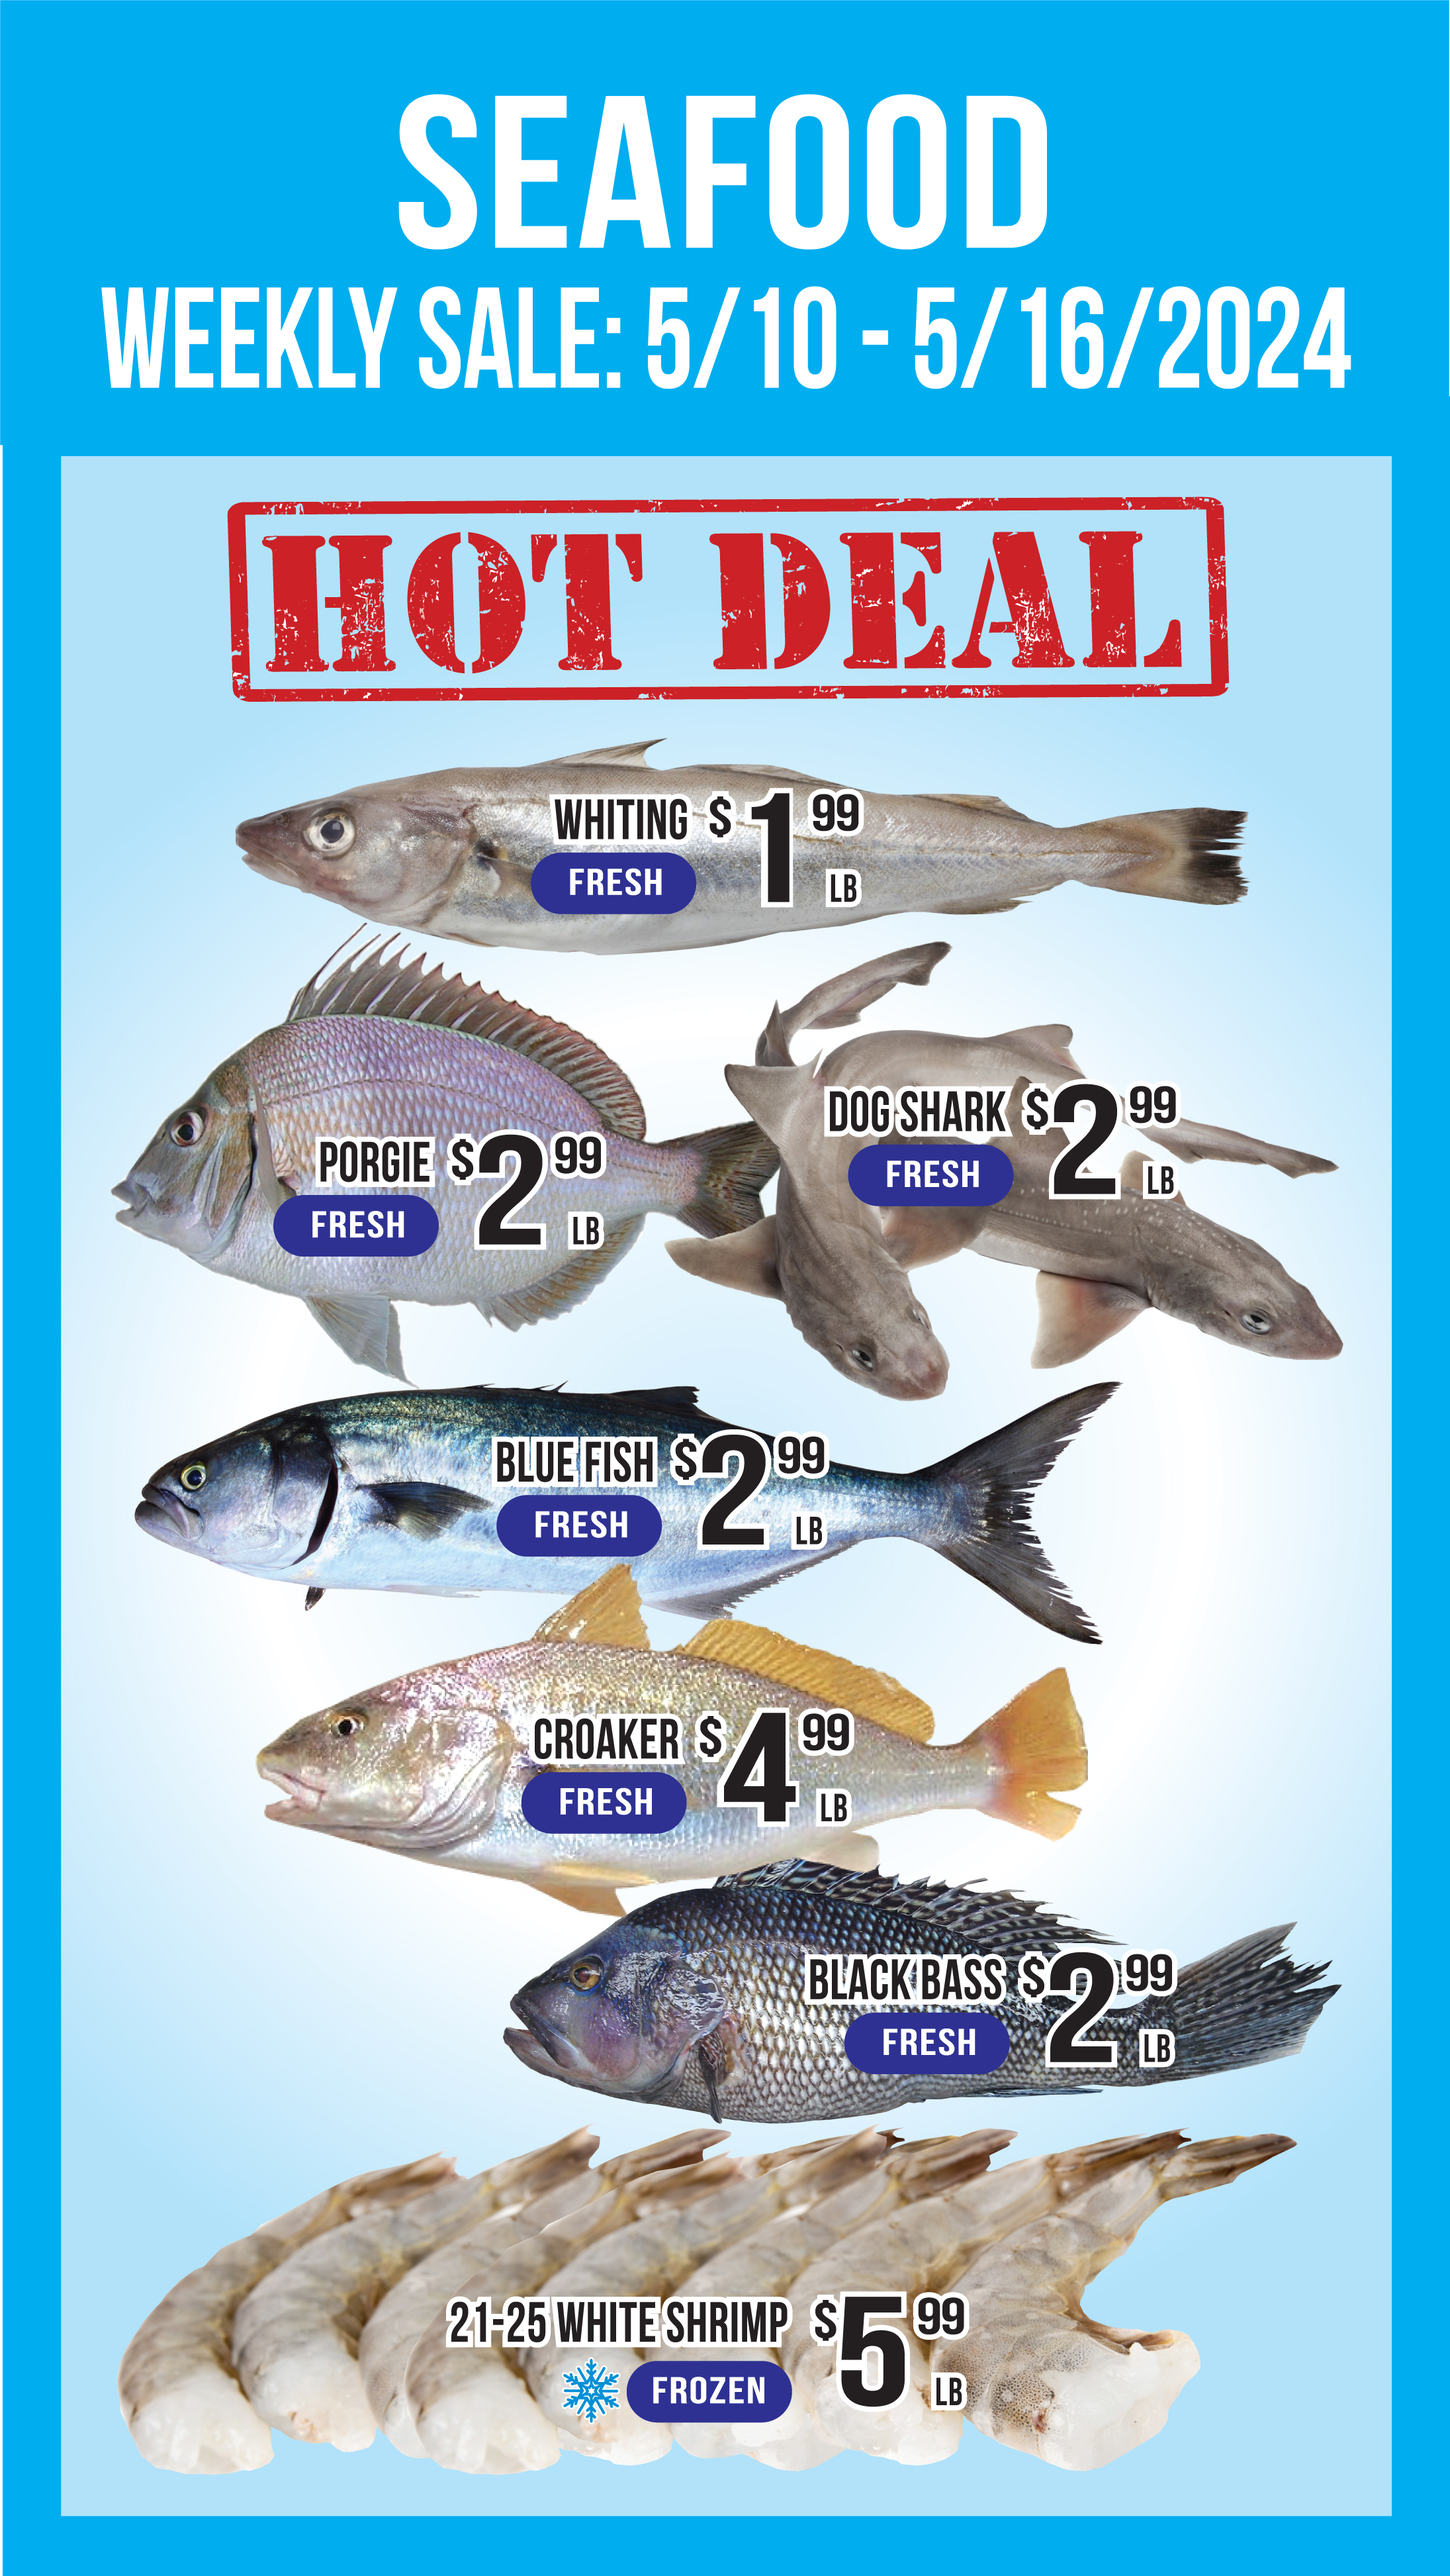
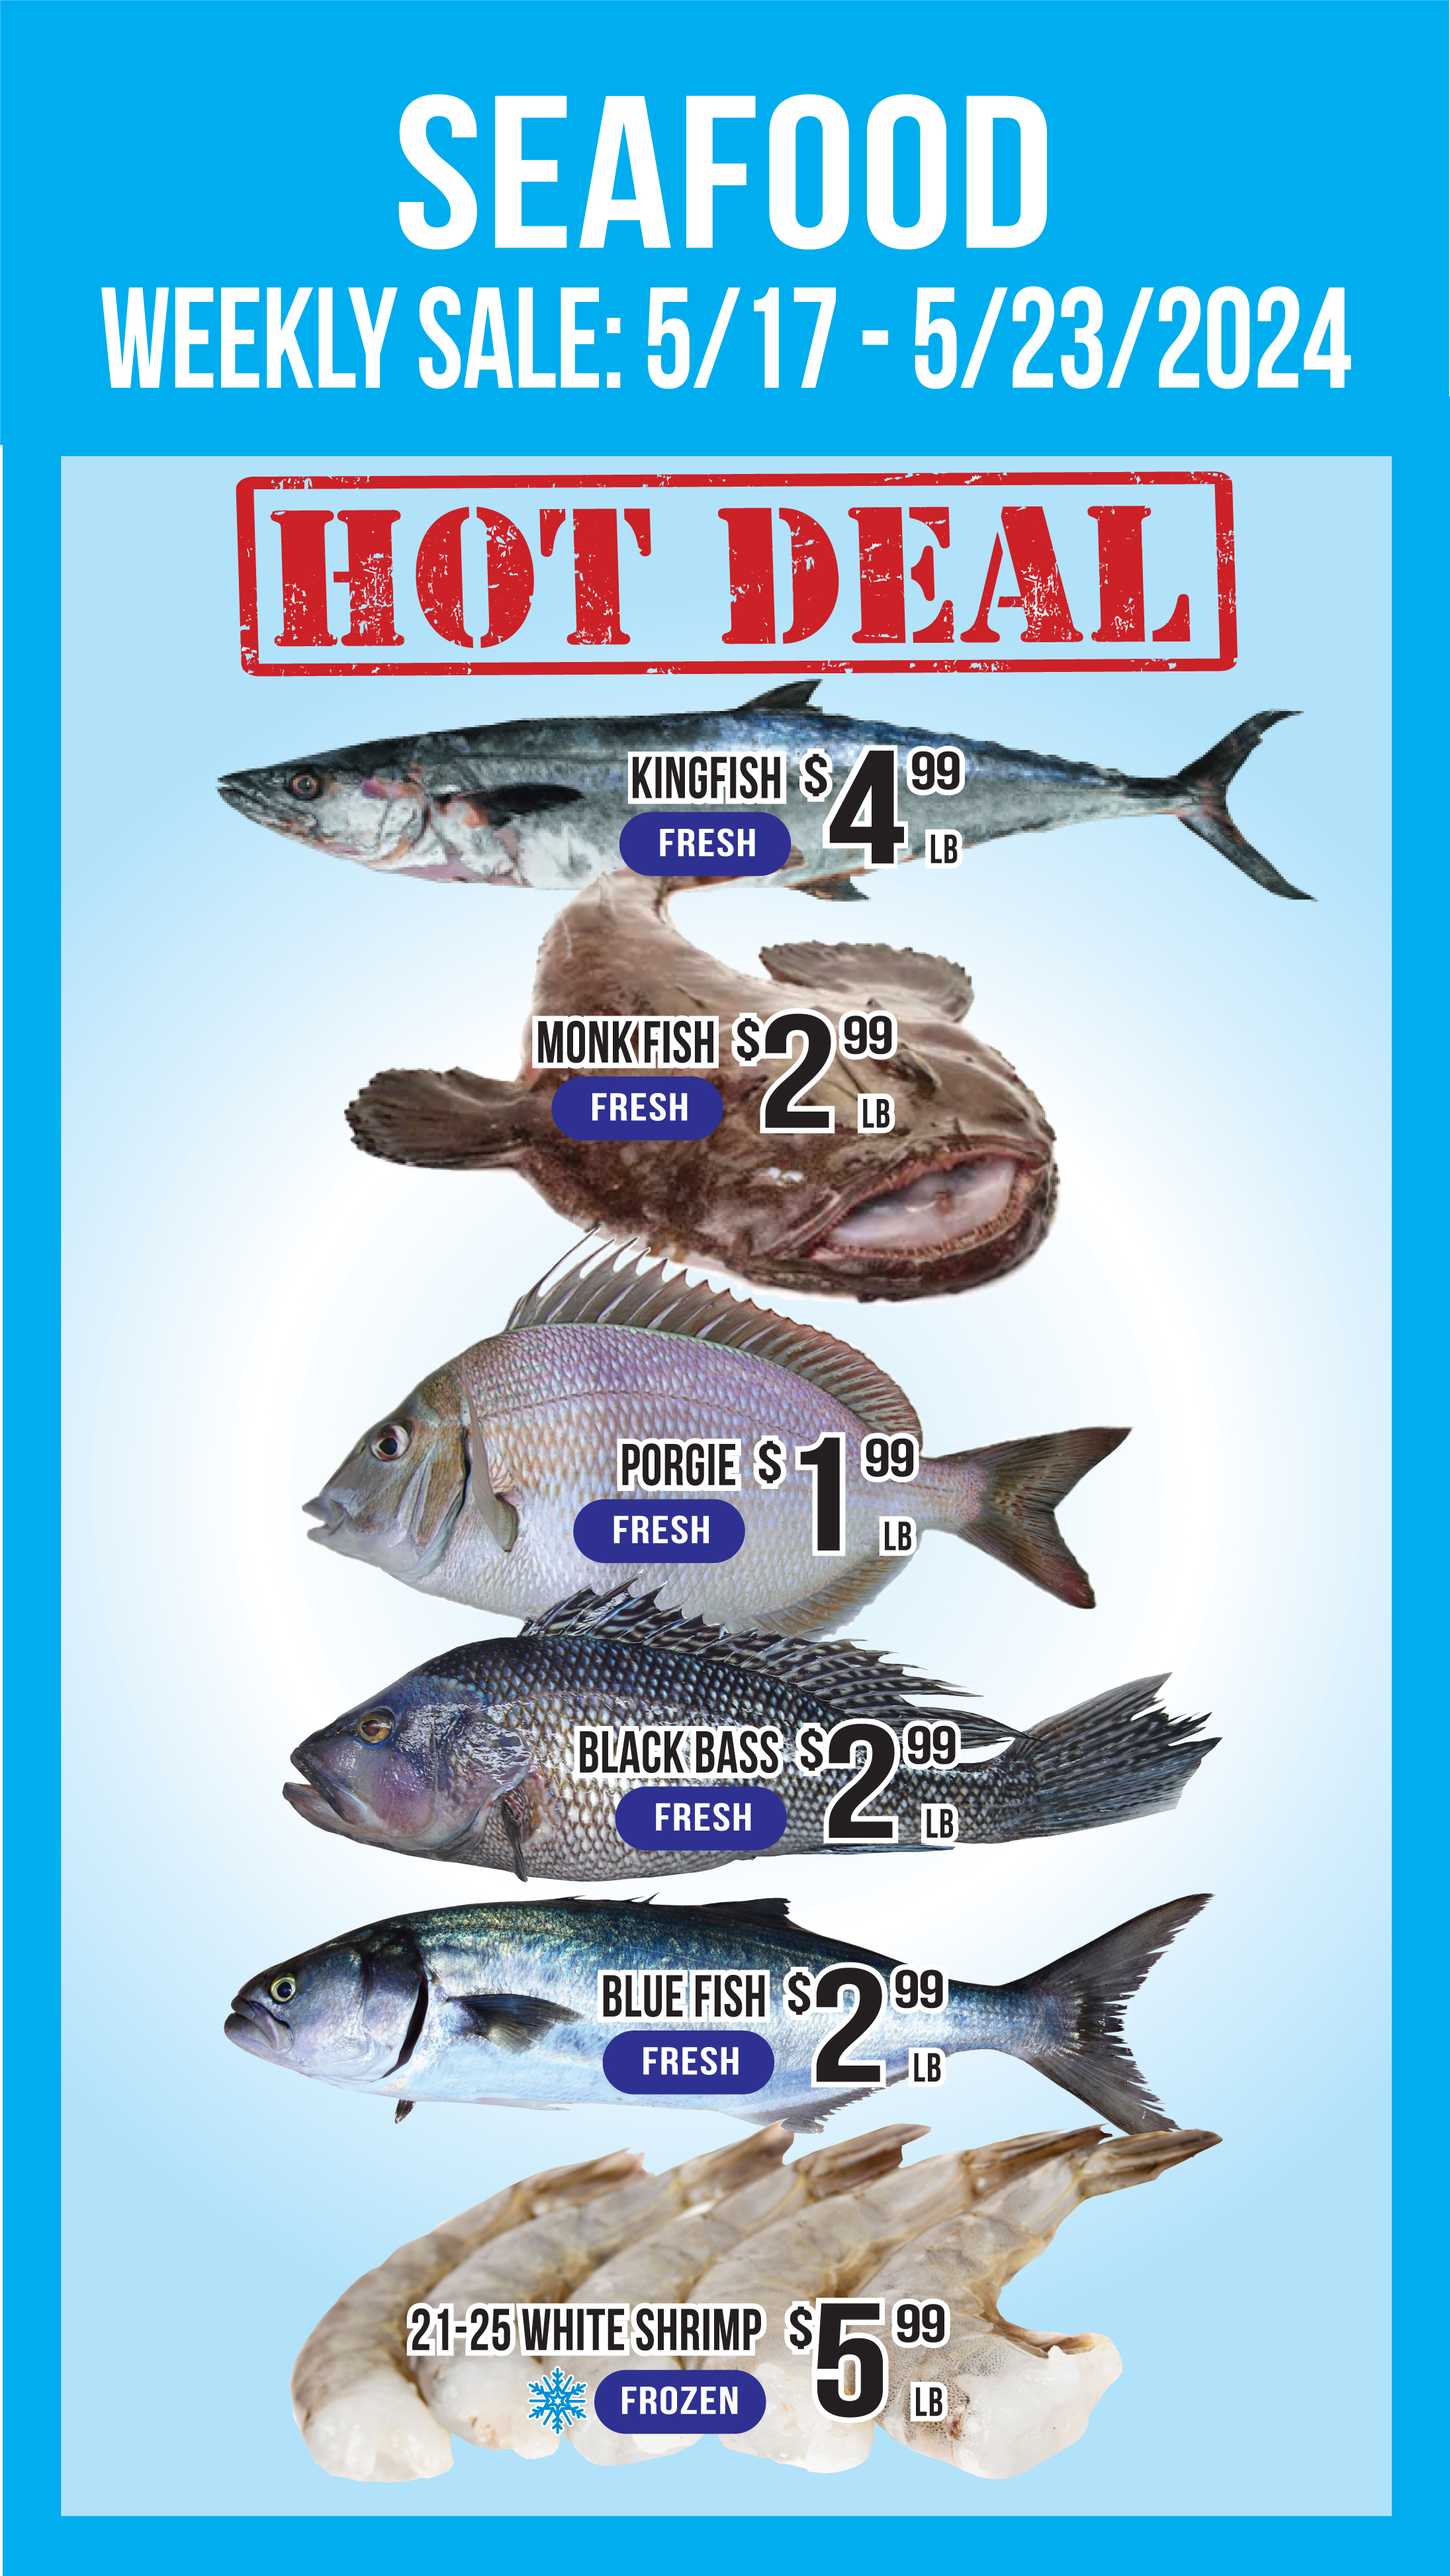
weekly deals

diff --git a/index.html b/index.html
@@ -64,16 +64,16 @@
           <img src="./public/assets/sp.jpg" class="d-block w-100 img-fluid" alt="...">
         </div> -->
         <div class="carousel-item center-carousel active">
-          <img src="./public/assets/weekly/meat.jpg?v=0510" class="img-fluid" alt="...">
+          <img src="./public/assets/weekly/meat.jpg?v=0517" class="img-fluid" alt="...">
         </div>
         <div class="carousel-item center-carousel">
-          <img src="./public/assets/weekly/veg.jpg?v=0510" class="img-fluid" alt="...">
+          <img src="./public/assets/weekly/veg.jpg?v=0517" class="img-fluid" alt="...">
         </div>
         <div class="carousel-item center-carousel">
-          <img src="./public/assets/weekly/fish.jpg?v=0510" class="img-fluid" alt="...">
+          <img src="./public/assets/weekly/fish.jpg?v=0517" class="img-fluid" alt="...">
         </div>
         <div class="carousel-item center-carousel">
-          <img src="./public/assets/weekly/grocery.jpg?v=0510" class="img-fluid" alt="...">
+          <img src="./public/assets/weekly/grocery.jpg?v=0517" class="img-fluid" alt="...">
         </div>
         <!-- <div class="carousel-item center-carousel">
           <img src="./public/assets/sale/grocery2.jpg?v=070623" class="img-fluid" alt="...">

diff --git a/deals.html b/deals.html
@@ -50,15 +50,15 @@
     <div class="row deal">
 
       <h2>English</h2>
-      <img class="img-fluid" src="./public/assets/weekly/english.jpg?v=0510">
+      <img class="img-fluid" src="./public/assets/weekly/english.jpg?v=0517">
 
       <br><br>
       <h2>Spanish</h2>
-      <img class="img-fluid" src="./public/assets/weekly/spanish.jpg?v=0510">
+      <img class="img-fluid" src="./public/assets/weekly/spanish.jpg?v=0517">
 
       <br>
       <h2>Korean</h2>
-      <img class="img-fluid" src="./public/assets/weekly/korean.jpg?v=0510">
+      <img class="img-fluid" src="./public/assets/weekly/korean.jpg?v=0517">
       <br>
       <br>
     </div>
